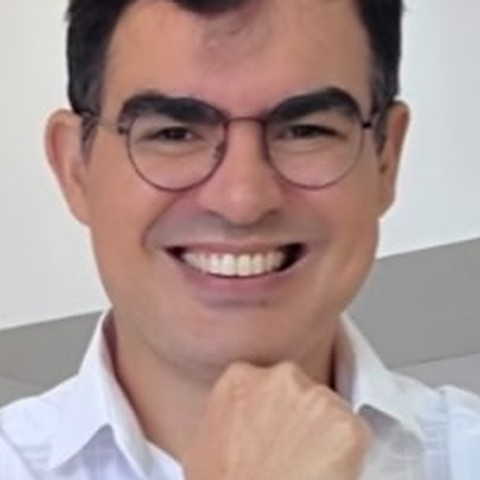
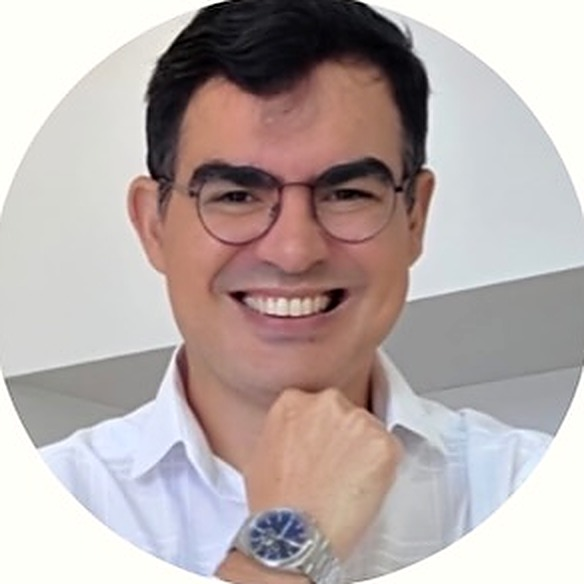
Atualiza hero, fotos do corpo docente, foto Dra. Elisabeth e galeria de estrutura
Claude-Session: https://claude.ai/code/session_01JCJMpVCaH4kwLwv8nvZ4Pe

diff --git a/index.html b/index.html
@@ -125,7 +125,9 @@ h2{font-size:clamp(2.1rem,4.6vw,3.3rem);color:var(--wine)}
 .point .ic{color:var(--logo)}
 .ph{display:flex;flex-direction:column;align-items:center;justify-content:center;gap:12px;text-align:center;padding:20px;color:var(--muted);font-size:.74rem;letter-spacing:.14em;text-transform:uppercase;background:var(--stone);border:1px solid var(--line)}
 .ph .ic{width:30px;height:30px;color:#a89aa2}
-.about .ph{aspect-ratio:4/5}
+.about-photo{margin:0;position:relative}
+.about-photo img{width:100%;aspect-ratio:4/3;object-fit:cover;object-position:60% 40%;filter:saturate(.95)}
+.about-photo::after{content:"";position:absolute;inset:14px -14px -14px 14px;border:1px solid var(--champagne);z-index:-1}
 
 /* content */
 .content{background:var(--stone)}
@@ -158,8 +160,8 @@ h2{font-size:clamp(2.1rem,4.6vw,3.3rem);color:var(--wine)}
 .fgrid{display:grid;grid-template-columns:repeat(6,1fr);gap:26px;margin-top:58px}
 .fgrid .doc{grid-column:span 2}
 .doc{background:var(--ivory);border:1px solid var(--line);display:flex;flex-direction:column}
-.doc .photo{aspect-ratio:1/1;overflow:hidden;background:var(--line)}
-.doc .photo img{width:100%;height:100%;object-fit:cover;object-position:center 22%;filter:saturate(.92)}
+.doc .photo{aspect-ratio:1/1;overflow:hidden;background:linear-gradient(160deg,#F1EAE4,#E4D9D1);display:grid;place-items:center}
+.doc .photo img{width:76%;height:auto;aspect-ratio:1/1;object-fit:cover;border-radius:50%;box-shadow:0 0 0 4px rgba(255,255,255,.75),0 14px 30px rgba(46,13,31,.16)}
 .doc .body{padding:22px 22px 24px;display:flex;flex-direction:column;gap:6px;flex:1}
 .doc h3{font-size:1.45rem;color:var(--wine)}
 .doc .role{font-size:.78rem;color:var(--logo);letter-spacing:.04em;font-weight:500}
@@ -172,14 +174,18 @@ details.cv ul{list-style:none;margin-top:12px;display:grid;gap:7px}
 details.cv li{font-size:.82rem;color:var(--muted);padding-left:14px;position:relative;font-weight:300;line-height:1.5}
 details.cv li::before{content:"";position:absolute;left:0;top:.65em;width:5px;height:1px;background:var(--logo)}
 .fgrid .doc.main{grid-column:span 3;flex-direction:row}
-.doc.main .photo{width:42%;aspect-ratio:auto;flex:none}
+.doc.main .photo{width:42%;aspect-ratio:auto;flex:none;padding:24px 0;align-content:center}
+.doc.main .photo img{width:84%}
 .doc.main .body{justify-content:center}
 .doc.main h3{font-size:2rem}
 
 /* structure */
-.gallery{display:grid;grid-template-columns:repeat(3,1fr);gap:16px;margin-top:58px}
-.gallery .ph{aspect-ratio:4/3}
-.gallery .ph:first-child{grid-column:span 2;grid-row:span 2;aspect-ratio:auto;min-height:340px}
+.gallery{display:grid;grid-template-columns:repeat(4,1fr);gap:16px;margin-top:58px}
+.gallery .ph,.gallery figure{aspect-ratio:4/3;margin:0;overflow:hidden;position:relative}
+.gallery figure img{width:100%;height:100%;object-fit:cover;transition:transform .6s}
+.gallery figure:hover img{transform:scale(1.03)}
+.gallery .big{grid-column:span 2;grid-row:span 2;aspect-ratio:auto;min-height:340px}
+.gallery figcaption{position:absolute;left:0;right:0;bottom:0;padding:34px 16px 14px;background:linear-gradient(180deg,transparent,rgba(46,13,31,.78));color:#fff;font-size:.72rem;letter-spacing:.16em;text-transform:uppercase;font-weight:500}
 .address{margin-top:30px;display:flex;gap:12px;align-items:center;color:var(--muted);font-size:.95rem}
 .address .ic{color:var(--logo)}
 
@@ -255,7 +261,7 @@ footer .legal{max-width:640px;font-size:.75rem;color:rgba(255,255,255,.45);margi
   .count{gap:14px;flex-direction:column;padding-top:32px}
   .count .num{font-size:3rem}
   .about .wrap{grid-template-columns:1fr;gap:40px}
-  .about .ph{aspect-ratio:16/11}
+  .about-photo::after{inset:10px -8px -10px 8px}
   .list6{grid-template-columns:1fr;margin-top:40px}
   .item{padding:28px 24px}
   .feat4,.safe4{grid-template-columns:1fr;margin-top:40px}
@@ -263,10 +269,11 @@ footer .legal{max-width:640px;font-size:.75rem;color:rgba(255,255,255,.45);margi
   .safe{padding:28px 24px}
   .fgrid{grid-template-columns:1fr;margin-top:40px}
   .fgrid .doc.main{grid-column:auto;flex-direction:column}
-  .doc.main .photo{width:100%;aspect-ratio:1/1}
+  .doc.main .photo{width:100%;aspect-ratio:1/1;padding:0}
+  .doc.main .photo img{width:70%}
   .doc.main h3{font-size:1.7rem}
   .gallery{grid-template-columns:1fr 1fr;margin-top:40px}
-  .gallery .ph:first-child{grid-column:span 2;grid-row:auto;min-height:0;aspect-ratio:16/10}
+  .gallery .big{grid-column:span 2;grid-row:auto;min-height:0;aspect-ratio:4/3}
   .invbox{padding:56px 22px 40px}
   .invbox .tagtop{font-size:.64rem;padding:7px 14px;letter-spacing:.14em}
   .faq summary{font-size:1.2rem}
@@ -330,7 +337,7 @@ footer .legal{max-width:640px;font-size:.75rem;color:rgba(255,255,255,.45);margi
     <span class="cta-note">Atendimento direto com a nossa equipe pelo WhatsApp</span>
   </div>
   <div class="hero-photo">
-    <img src="images/hero.jpg" alt="Corpo docente da Especialização em Cirurgias Estéticas da Face do IAHOF" width="2700" height="1134" fetchpriority="high">
+    <img src="images/hero.jpg" alt="Corpo docente da Especialização em Cirurgias Estéticas da Face do IAHOF" width="2700" height="1146" fetchpriority="high">
   </div>
 </section>
 
@@ -358,7 +365,7 @@ footer .legal{max-width:640px;font-size:.75rem;color:rgba(255,255,255,.45);margi
         <div class="point"><svg class="ic"><use href="#i-cap"/></svg>Mentoria posterior e grupo exclusivo</div>
       </div>
     </div>
-    <div class="ph" role="img" aria-label="Espaço reservado para foto"><svg class="ic"><use href="#i-cam"/></svg>Foto da Dra. Elisabeth / aula</div>
+    <figure class="about-photo"><img src="images/elisabeth-aula.jpg" alt="Dra. Elisabeth Almeida em atendimento durante a prática clínica no IAHOF" loading="lazy"></figure>
   </div>
 </section>
 
@@ -561,11 +568,11 @@ footer .legal{max-width:640px;font-size:.75rem;color:rgba(255,255,255,.45);margi
     <h2>Moderna, completa e pensada para o seu aprendizado</h2>
     <p class="lead">Aulas e práticas acontecem na sede do IAHOF, em um ambiente preparado para ensino e atendimento com segurança.</p>
     <div class="gallery">
+      <figure class="big"><img src="images/estrutura-0164.jpg" alt="Sala de aula do IAHOF durante aula teórica" loading="lazy"><figcaption>Sala de aula</figcaption></figure>
+      <figure><img src="images/estrutura-0134.jpg" alt="Atendimento supervisionado na prática clínica" style="object-position:center 30%" loading="lazy"><figcaption>Prática clínica</figcaption></figure>
+      <figure><img src="images/estrutura-0140.jpg" alt="Alunos acompanhando a prática clínica" style="object-position:center 62%" loading="lazy"><figcaption>Acompanhamento</figcaption></figure>
       <div class="ph"><svg class="ic"><use href="#i-cam"/></svg>Centro cirúrgico</div>
-      <div class="ph"><svg class="ic"><use href="#i-cam"/></svg>Sala de aula</div>
-      <div class="ph"><svg class="ic"><use href="#i-cam"/></svg>Turma e certificação</div>
       <div class="ph"><svg class="ic"><use href="#i-cam"/></svg>Fachada</div>
-      <div class="ph"><svg class="ic"><use href="#i-cam"/></svg>Dra. Elisabeth com alunos</div>
     </div>
     <p class="address"><svg class="ic ic-sm"><use href="#i-pin"/></svg>Empresarial Charles Darwin · Ilha do Leite, Recife/PE</p>
   </div>
